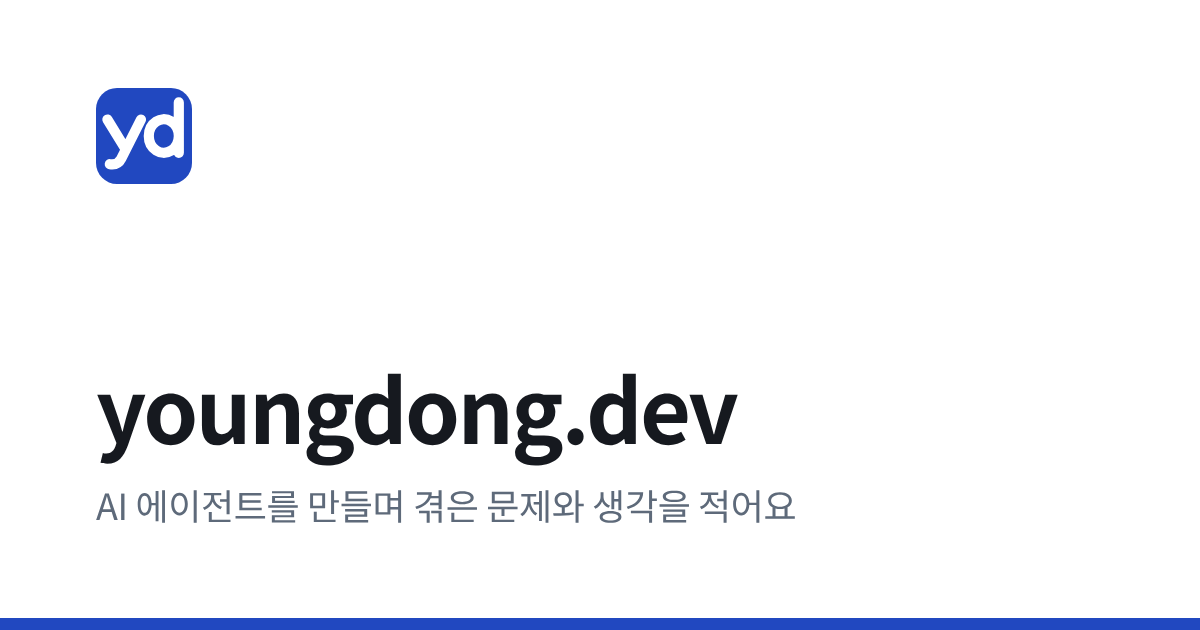
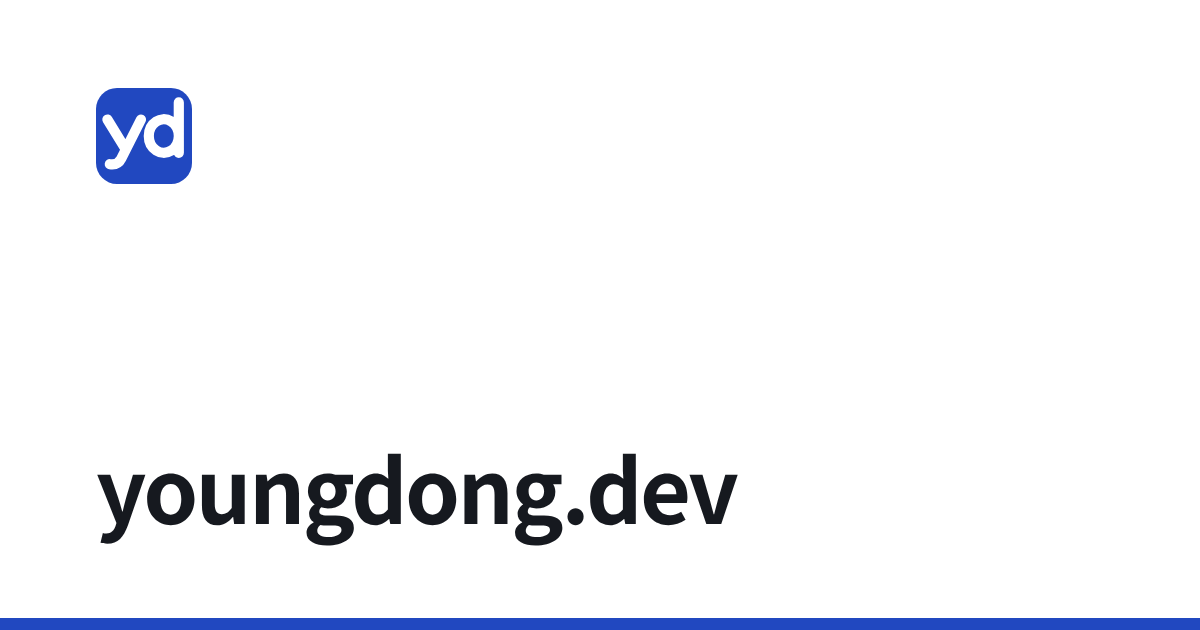
헤더 소개 문구 제거, 사이트 이름만 표시
Claude-Session: https://claude.ai/code/session_01WBqRjgPZWYCWwjpCMdosmP

Changed region(s): [[0.0617, 0.573, 0.6783, 0.8746]]

diff --git a/src/styles/global.css b/src/styles/global.css
@@ -43,8 +43,7 @@ a { color: inherit; text-decoration: none; }
 /* header & footer */
 .site-top { max-width: var(--wrap); margin: 0 auto; display: flex; align-items: baseline; gap: 20px; padding: 28px 40px; border-bottom: 1px solid var(--line); }
 .site-name { font-weight: 700; font-size: 17px; }
-.site-tag { flex: 1; font-size: 14px; color: var(--slate); }
-.site-top nav { display: flex; align-items: center; gap: 22px; }
+.site-top nav { margin-left: auto; display: flex; align-items: center; gap: 22px; }
 .site-top nav a { font-size: 14px; color: var(--slate); }
 .site-top nav a:hover, .site-foot a:hover { color: var(--ink); }
 .site-top nav a[aria-current="page"] { color: var(--ink); font-weight: 600; }
@@ -176,7 +175,6 @@ a { color: inherit; text-decoration: none; }
 }
 @media (max-width: 760px) {
   .site-top { flex-wrap: wrap; padding: 18px 20px; row-gap: 4px; }
-  .site-tag { order: 3; flex-basis: 100%; font-size: 13px; }
   .site-top nav { gap: 16px; margin-left: auto; }
   .lead { padding: 40px 20px 40px; }
   .lead h2 { font-size: 28px; }

diff --git a/src/consts.ts b/src/consts.ts
@@ -1,9 +1,8 @@
 export const SITE = {
   title: 'youngdong.dev',
   url: 'https://youngdong.dev',
-  description: 'AI 에이전트를 만드는 엔지니어의 블로그. 일하면서 겪은 문제와 결정, 읽고 생각한 것을 적어요.',
-  tagline: 'AI 에이전트를 만들며 겪은 문제와 생각을 적어요',
-  footnote: 'AI 에이전트를 만드는 엔지니어의 블로그',
+  // 화면에는 보이지 않고 검색 결과·공유 미리보기에만 쓰인다
+  description: 'LLM, AI 에이전트, 지식 관리에 대해 해 보고 알게 된 것을 적는 블로그',
   links: {
     github: 'https://github.com/Youngdong2',
     linkedin: '',

diff --git a/docs/decisions.md b/docs/decisions.md
@@ -19,6 +19,7 @@
 | 2026-11-02 | 배포 전 기본 기능: 공유 이미지(og.png 사이트 공통, 1200x630), 코드 복사 버튼, 소제목 # 링크, 링크 복사 버튼, 이전·다음 글, 수정일(`updated`), 각주 스타일, 구조화 데이터(BlogPosting), robots.txt, apple-touch-icon. 기각: 조회수·좋아요(숫자가 작으면 오히려 비어 보임, 통계는 Web Analytics로), 검색(글 20개 이후 Pagefind), 시리즈·관련 글·뉴스레터(실제 필요 생길 때) | 김영동 |
 | 2026-11-02 | 댓글: giscus + 댓글 전용 공개 저장소(코드 저장소는 비공개 유지 가능). 화면에 가까워질 때만 불러오고 사이트 다크 모드와 테마 동기화. 기각: 코드 저장소 공개(실명 기록 노출), utterances(업데이트 정체), Disqus(광고·추적·무거움) | 김영동 |
 | 2026-11-02 | 배포: Cloudflare Pages Git 연동, 통계: Cloudflare Web Analytics. 기각: wrangler 직접 업로드(매번 수동), GitHub Actions(지금 규모에 과함), GA4(쿠키·동의 문제) | 김영동 |
+| 2026-11-02 | 헤더 한 줄 소개 문구 없앰. 헤더·푸터·공유 이미지에는 사이트 이름만. 주제를 말하는 문구는 블로그를 AI 에이전트에 묶는 느낌이라 뺐고, 주제는 글 목록이 보여주게 함. 검색용 description만 넓은 주제어로 유지. 검토 후 기각한 문구: 'AI 에이전트를 만들고, 재 보고, 적어요', '해 보고 알게 된 것을 적어요' 등 | 김영동 |
 
 ## 정할 것
 - AI 요약 생성 방식: 글 작성 시 Claude로 만들어 직접 다듬기 vs 빌드 시 API로 자동 생성
